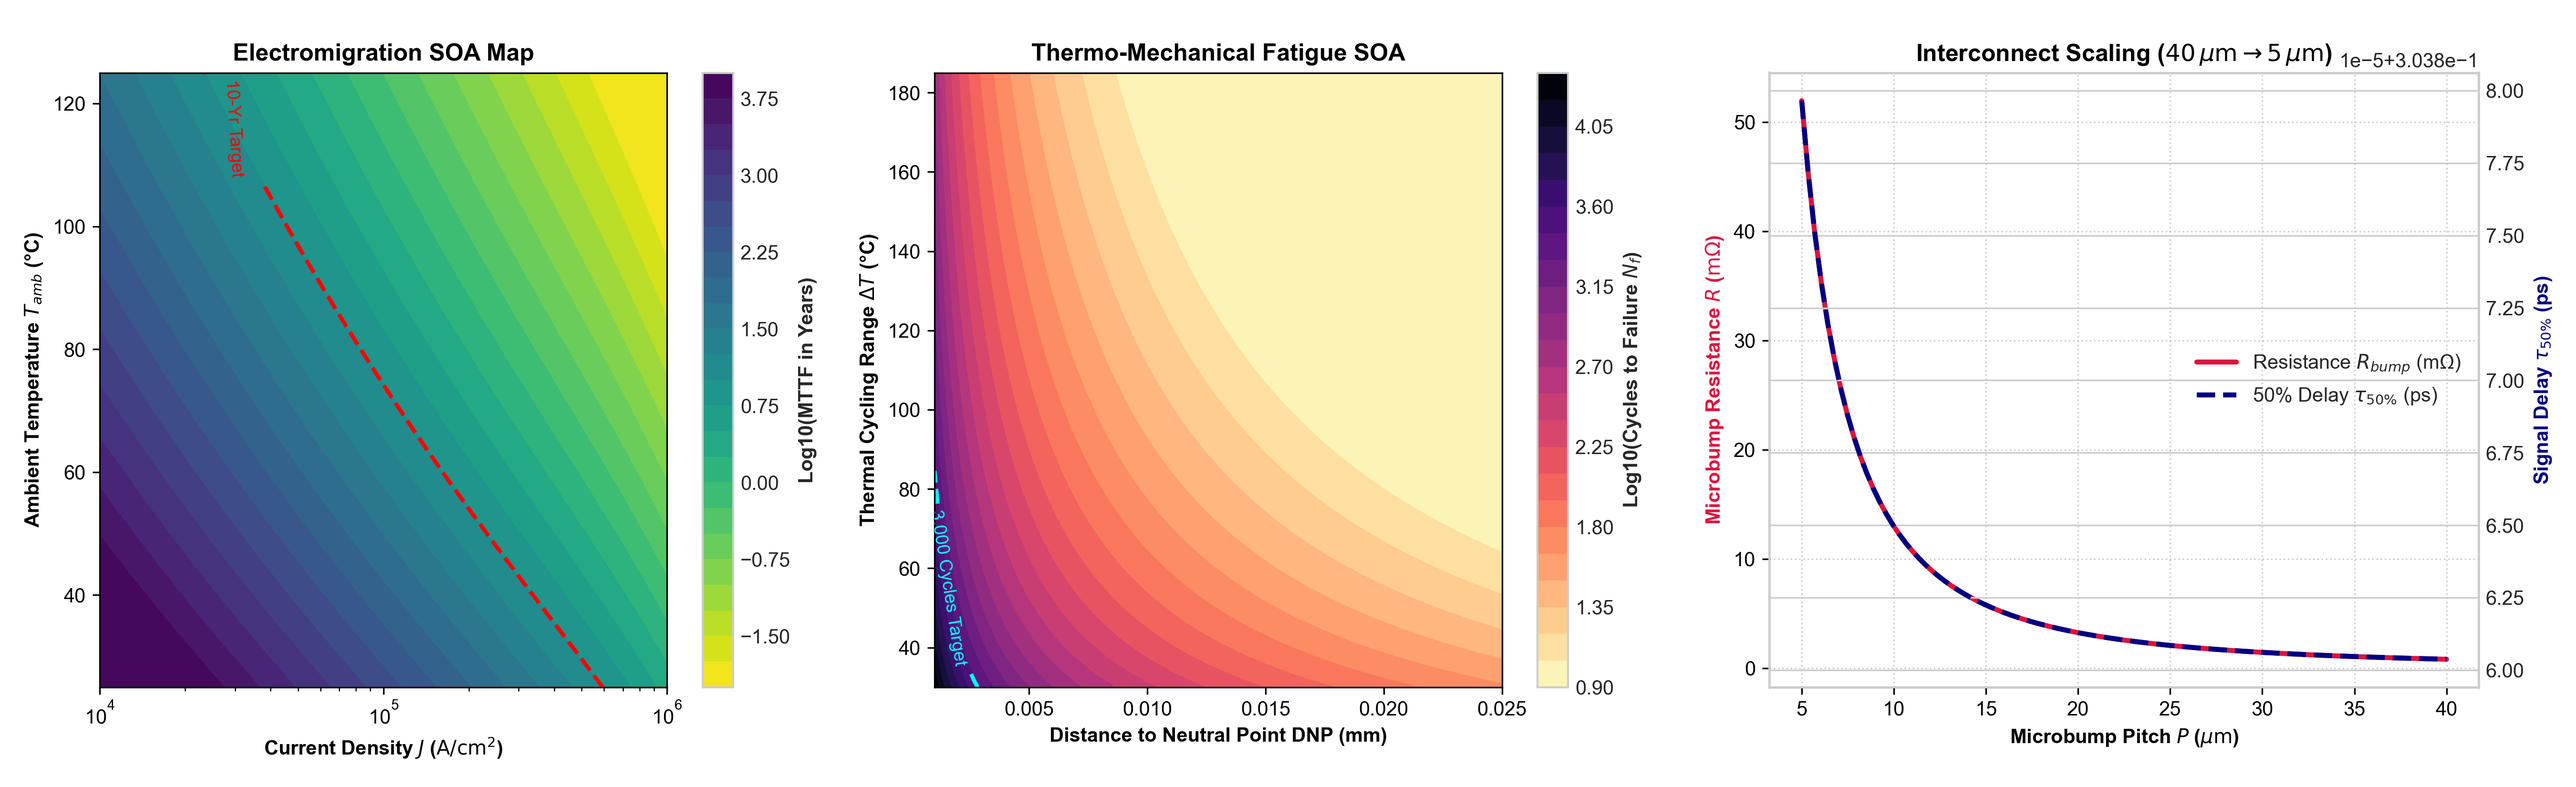
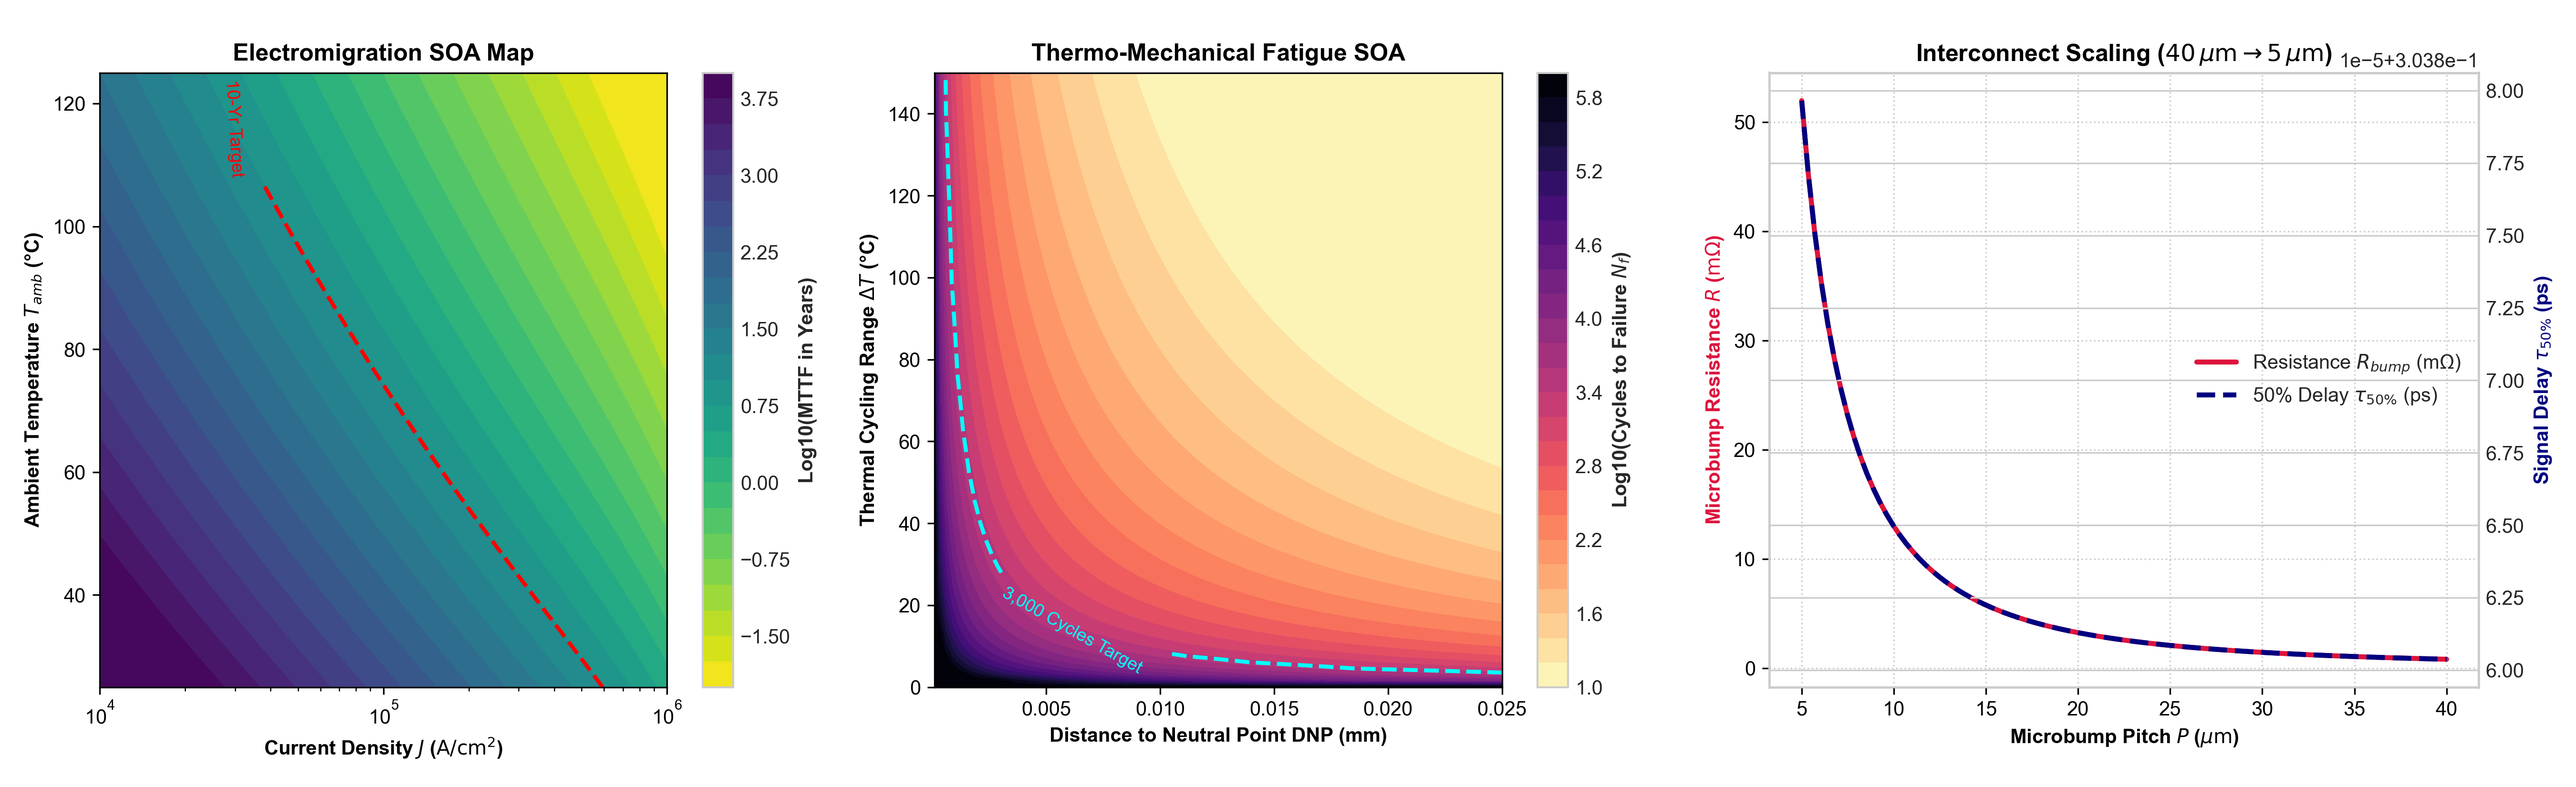
edited the temperature and dnp range

Changed region(s): [[0.3422, 0.5564, 0.5911, 0.9273], [0.3422, 0.0927, 0.4044, 0.5873], [0.6222, 0.34, 0.6533, 0.6491]]

diff --git a/src/sweeps/soa_sweeper.py b/src/sweeps/soa_sweeper.py
@@ -22,8 +22,8 @@ def sweep_electromigration_soa():
     return(J_mesh,T_mesh,mttf_hours/8760) #mttf in years
 
 def sweep_fatigue_soa():
-    dnp_range=np.linspace(1,25,100)*1e-3
-    dT_range=np.linspace(30,185,100)
+    dnp_range=np.linspace(0.1,25,100)*1e-3
+    dT_range=np.linspace(0,150,100)
     dnp_mesh,dT_mesh=np.meshgrid(dnp_range,dT_range)
     strain_array=compute_plastic_shear_strain(dnp_mesh,dT_mesh)
     N_f_array=compute_coffin_manson_cycles(strain_array,T_max=125 + 273.15) #125 C
